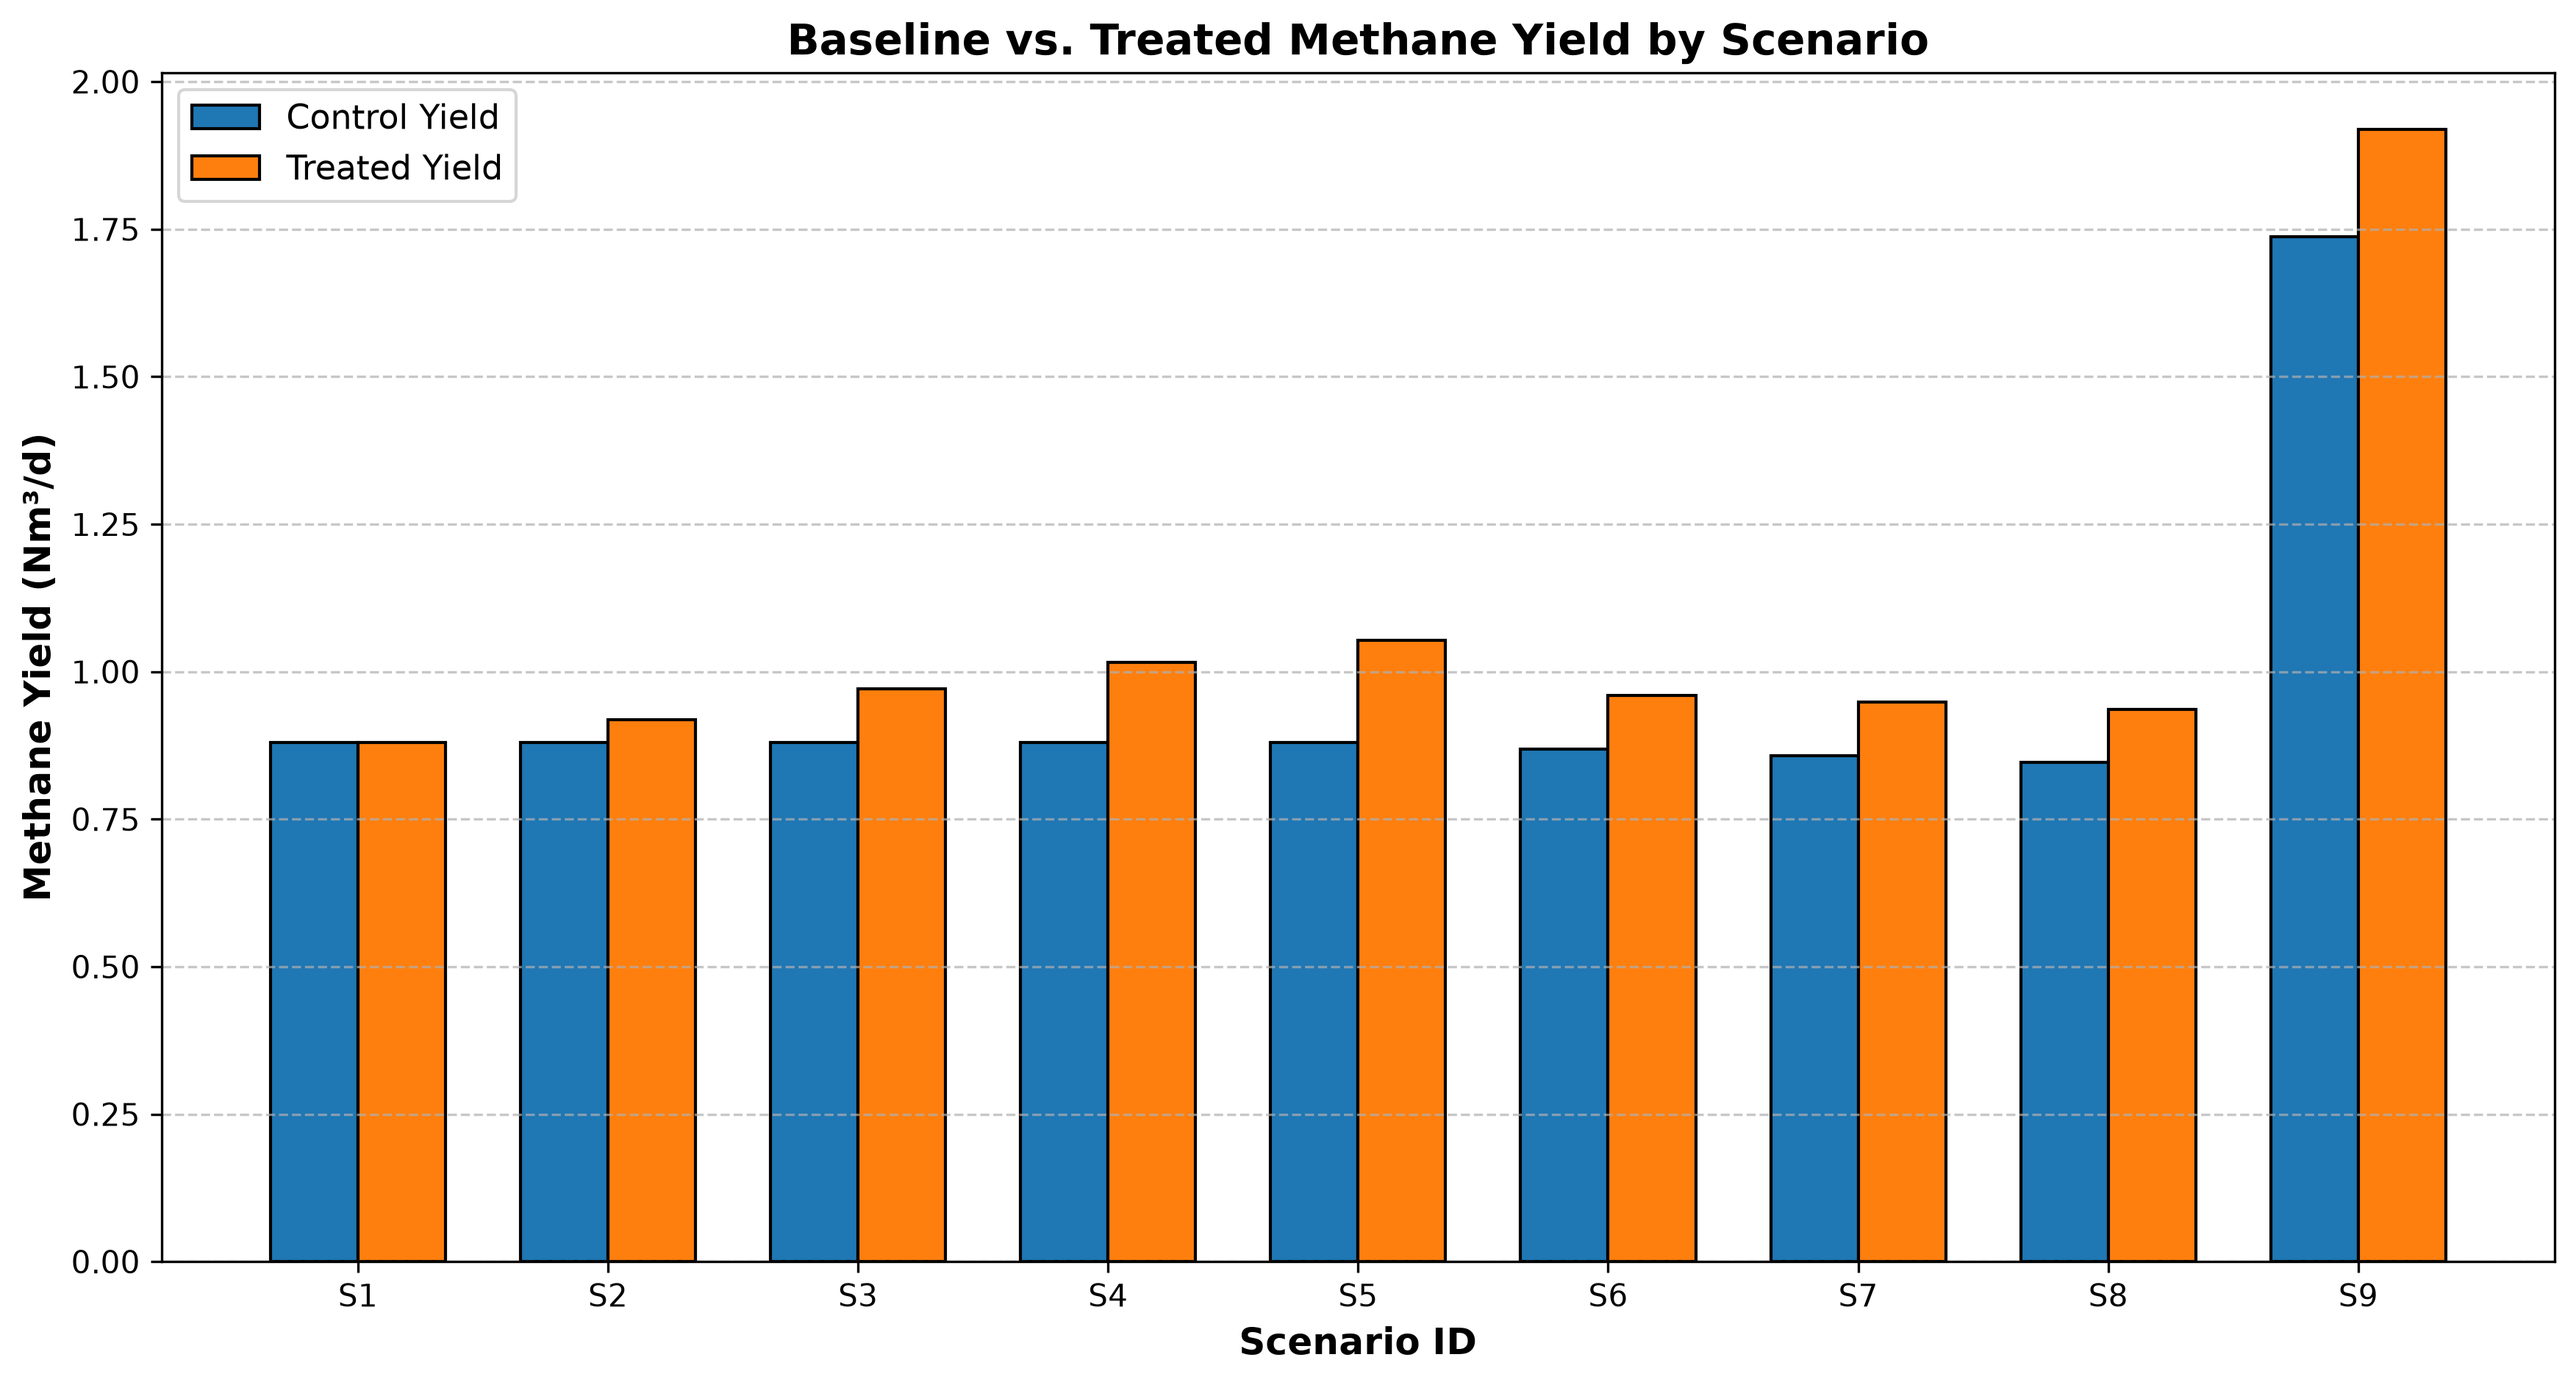
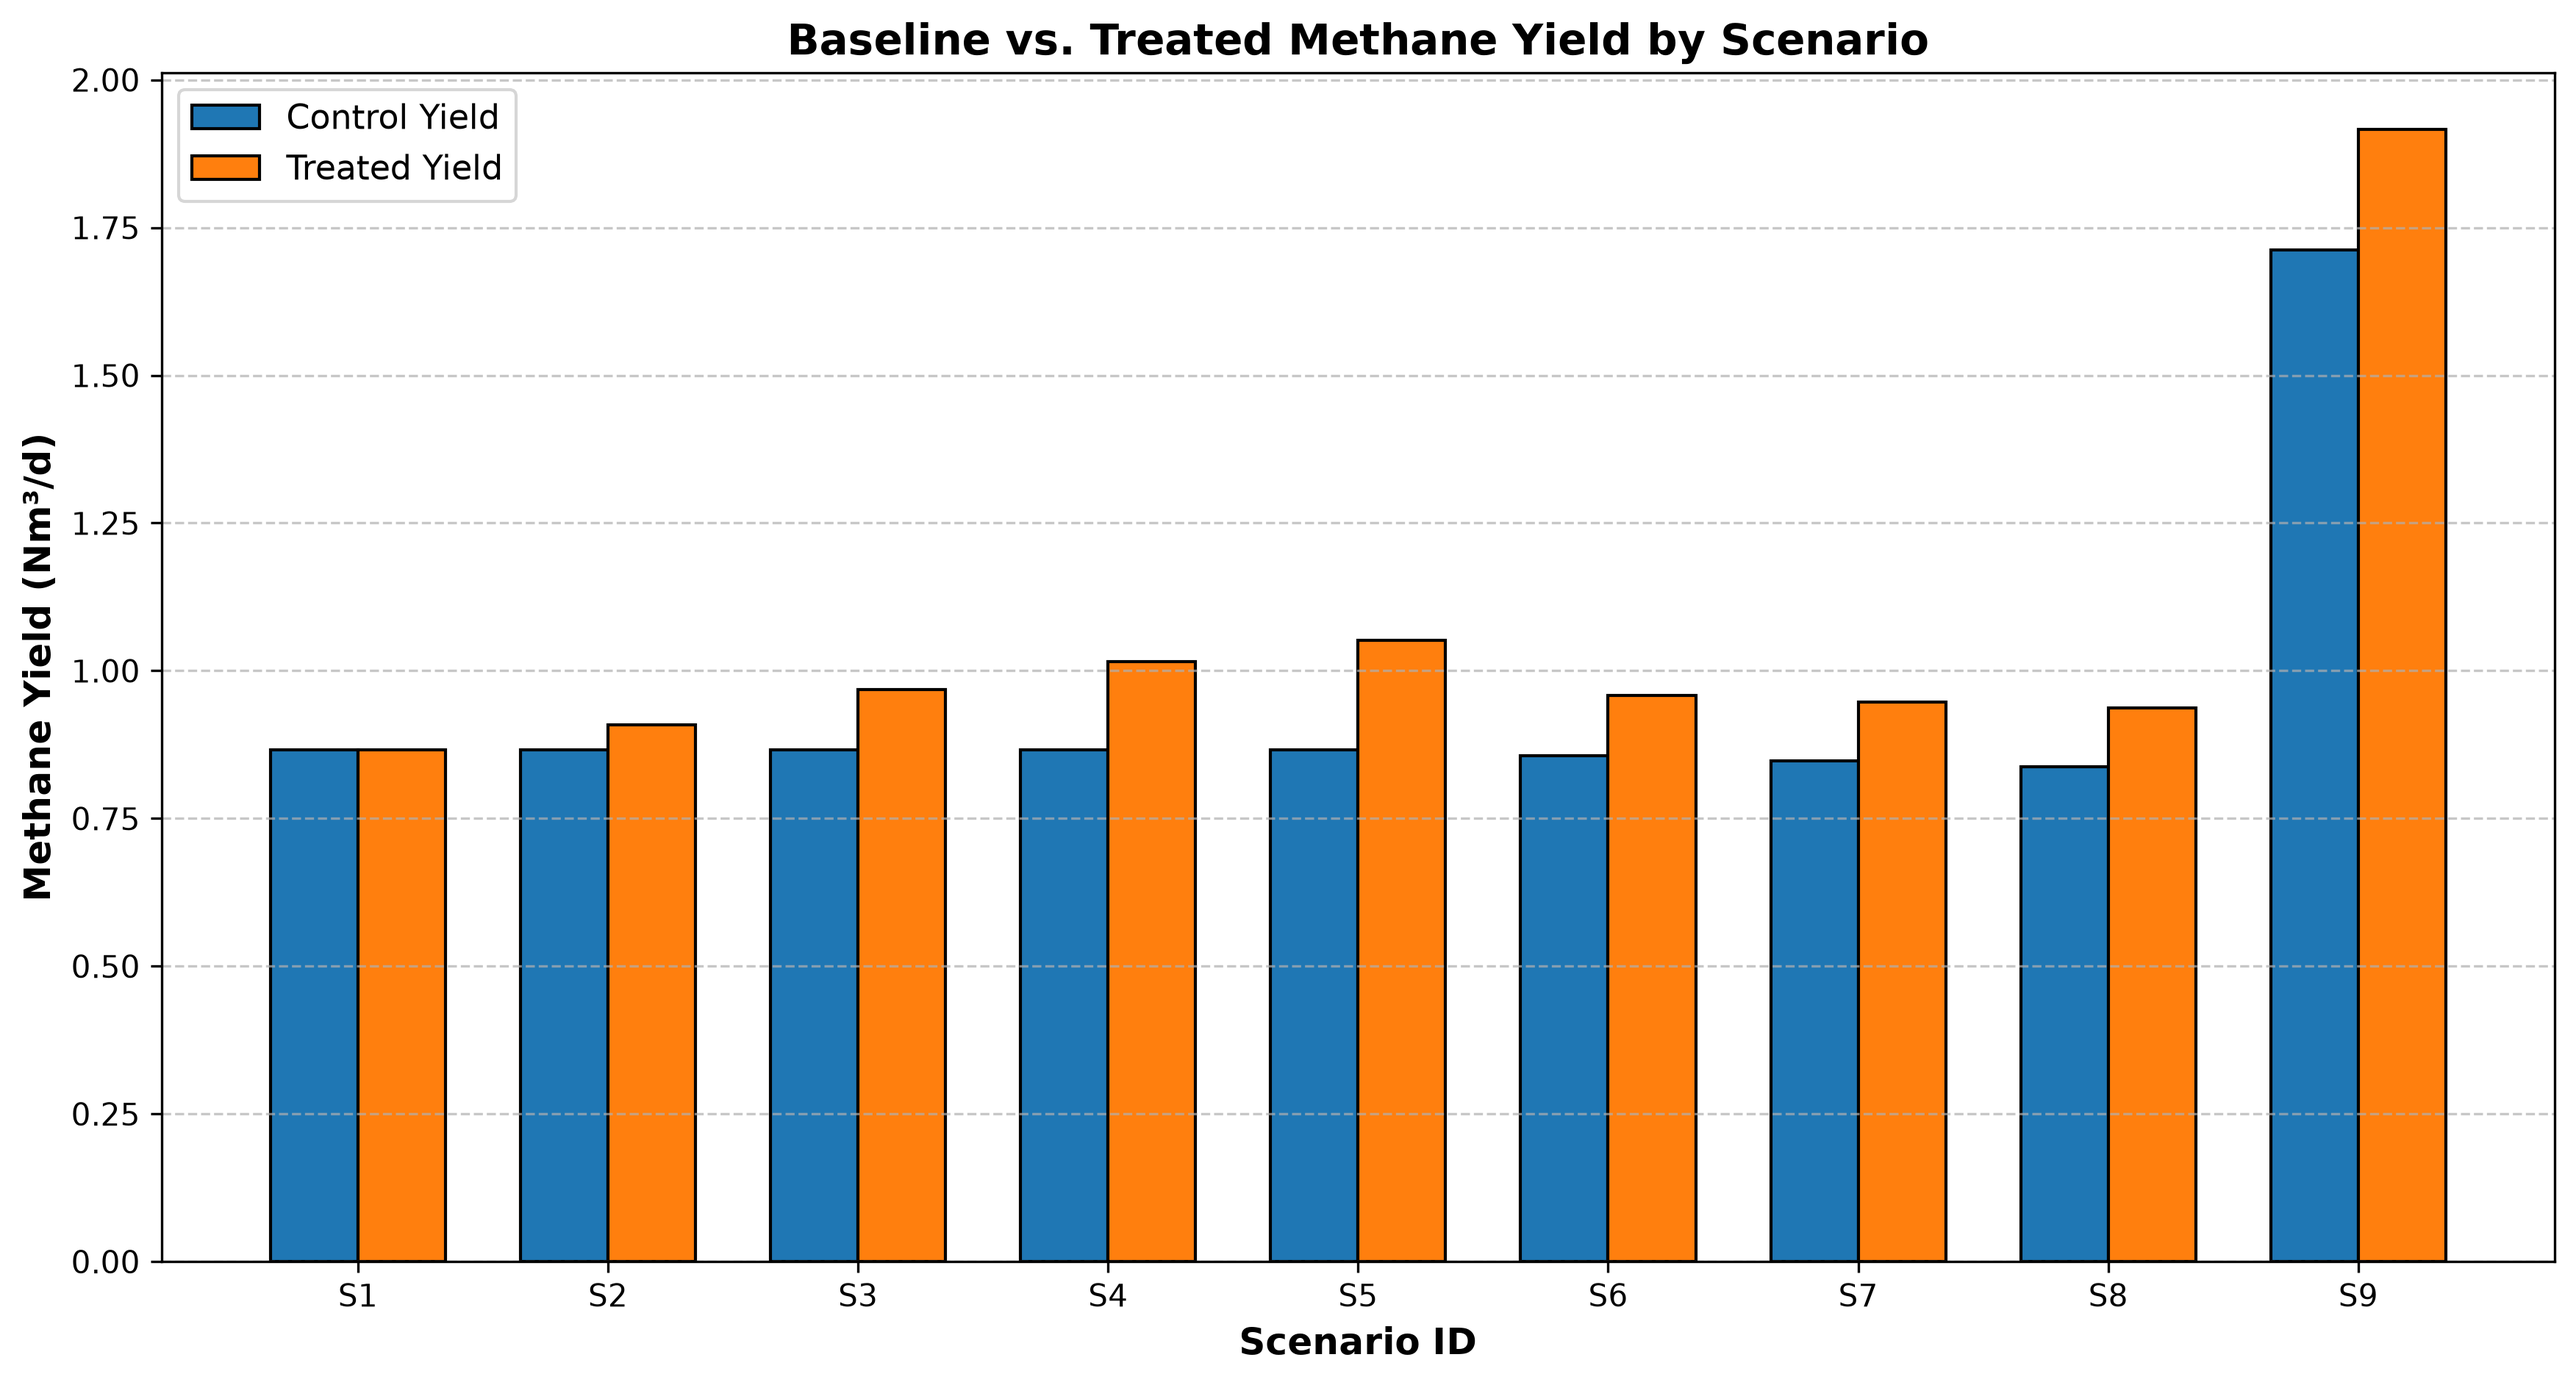
modified b_baseline

diff --git a/utils/visualisations.py b/utils/visualisations.py
@@ -5,7 +5,7 @@ def generate_all_plots(df_results, scenario_curves, output_dir="output"):
     """Generates and saves all simulation visualisations to the designated output directory."""
     os.makedirs(output_dir, exist_ok=True)
 
-    # 1. Baseline vs. Treated Methane Yield Bar Chart
+    # baseline vs. Treated Methane Yield Bar Chart
     plt.figure(figsize=(14, 7))
     bar_width = 0.35
     indices = range(len(df_results))
@@ -27,7 +27,7 @@ def generate_all_plots(df_results, scenario_curves, output_dir="output"):
     plt.close()
     print(f"[+] Visualisation successfully saved to {plot1_path}")
 
-    # 2. Methane Improvement Percentage
+    # methane Improvement Percentage
     plt.figure(figsize=(12, 6))
     scenarios_treated = df_results["Scenario ID"][1:]
     improvement_values = df_results["Improvement (%)"][1:]
@@ -47,7 +47,7 @@ def generate_all_plots(df_results, scenario_curves, output_dir="output"):
     plt.close()
     print(f"[+] Visualisation successfully saved to {plot2_path}")
 
-    # 3. Gompertz Curves (Time Series)
+    # Gompertz Curves (Time Series)
     plt.figure(figsize=(12, 7))
     for scenario_id, data in scenario_curves.items():
         plt.plot(data["time"], data["methane"], label=f'Scenario {scenario_id}', linewidth=2)
@@ -63,7 +63,7 @@ def generate_all_plots(df_results, scenario_curves, output_dir="output"):
     plt.close()
     print(f"[+] Visualisation successfully saved to {plot3_path}")
 
-    # 4. Specific Methane Yield (L/kgVS)
+    # specific methane yield (L/kgVS)
     plt.figure(figsize=(12, 6))
     scenarios_all = df_results["Scenario ID"]
     specific_yields = df_results["Specific Yield (L/kgVS)"]
@@ -75,10 +75,44 @@ def generate_all_plots(df_results, scenario_curves, output_dir="output"):
 
     plt.xlabel('Scenario ID', fontsize=12, fontweight='bold')
     plt.ylabel('Specific Yield (L/kgVS)', fontsize=12, fontweight='bold')
-    plt.title('Specific Methane Yield by Scenario (Factoring Risk & OLR)', fontsize=14, fontweight='bold')
+    plt.title('Specific Methane Yield by Scenario (Factoring Stability & OLR)', fontsize=14, fontweight='bold')
     plt.grid(axis='y', linestyle='--', alpha=0.7)
     
     plot4_path = os.path.join(output_dir, "specific_methane_yield.png")
     plt.savefig(plot4_path, dpi=300, bbox_inches='tight')
     plt.close()
     print(f"[+] Visualisation successfully saved to {plot4_path}")
+
+    # practical yield improvement (stability & OLR adjusted)
+    plt.figure(figsize=(12, 6))
+    
+    # extract the baseline specific yield (assumed to be the first row, S1)
+    baseline_specific_yield = df_results["Specific Yield (L/kgVS)"].iloc[0]
+    # isolate treated scenarios (skip S1)
+    scenarios_treated = df_results["Scenario ID"][1:]
+    treated_specific_yields = df_results["Specific Yield (L/kgVS)"][1:]
+    # calculate practical percentage improvement over S1
+    practical_improvement = ((treated_specific_yields - baseline_specific_yield) / baseline_specific_yield) * 100.0
+    # color bars green if positive, red if negative
+    colors = ['#2ca02c' if val >= 0 else '#d62728' for val in practical_improvement]
+    
+    bars = plt.bar(scenarios_treated, practical_improvement, color=colors, edgecolor='black', width=0.5)
+    
+    for bar in bars:
+        yval = bar.get_height()
+        # Adjust text placement based on whether the bar goes up or down
+        offset = 1.0 if yval >= 0 else -2.5
+        va = 'bottom' if yval >= 0 else 'top'
+        plt.text(bar.get_x() + bar.get_width()/2, yval + offset, f'{yval:.1f}%', ha='center', va=va, fontweight='bold', fontsize=9)
+
+    plt.axhline(0, color='black', linewidth=1.2) # baseline reference line
+    plt.xlabel('Scenario ID', fontsize=12, fontweight='bold')
+    plt.ylabel('Practical Improvement Over Baseline (%)', fontsize=12, fontweight='bold')
+    plt.title('Stability-Adjusted Specific Yield Improvement (vs S1)', fontsize=14, fontweight='bold')
+    plt.grid(axis='y', linestyle='--', alpha=0.7)
+    
+    plot5_path = os.path.join(output_dir, "practical_yield_improvement.png")
+    plt.savefig(plot5_path, dpi=300, bbox_inches='tight')
+    plt.close()
+    
+    print(f"[+] Visualization successfully saved to {plot5_path}")

diff --git a/data/config.py b/data/config.py
@@ -13,13 +13,22 @@ FW_FRACTIONS = { # baseline fractions given by Dr.Bita
 #     'lipid': 0.0072,
 #     'inert': 0.0009
 # }
+# # FW_FRACTIONS = { # S11
+#     'carb': 0.,
+#     'protein': 0.3774,
+#     'lipid': 0.,
+#     'inert': 0.
+# }
+# FW_FRACTIONS = {
+
+# }
 
 
-SCG_FRACTIONS = {
-    'carb': 0.42,    # Assumed baseline SCG composition
-    'protein': 0.16, # Assumed baseline SCG composition
-    'lipid': 0.22,   # Assumed baseline SCG composition
-    'inert': 0.20    # Assumed baseline SCG composition
+SCG_FRACTIONS = { # other sim
+    'carb': 0.42,
+    'protein': 0.16,
+    'lipid': 0.22,
+    'inert': 0.20
 }
 # ==========================================
 # 2. METHANE POTENTIAL CONSTANTS (Nm^3 CH4 / kg VS)
@@ -78,6 +87,12 @@ FPSI_WEIGHTS = {
     'lipid': 0.20,
     'inert': 0.20
 }
+# enzyme_split = {
+#     "carb": 0.40,
+#     "protein": 0.30,
+#     "lipid": 0.20,
+#     "SCG": 0.10,
+# }
 # FPSI_WEIGHTS = { # team assumption
 #     'carb': 0.25,
 #     'protein': 0.25,
@@ -93,14 +108,14 @@ DIGESTER_BASELINES = {
     'ch4_fraction_control': 0.60, # ! VERIFY - 0.50-0.70 range from dr. bita's paper 2.2.4. modelled CH4 fraction in raw biogas
     'lag_phase': 3.8,# from Dr. Bita's sim
     'b_control': {   # ! Assumed baseline biodegradability factors
-        'carb': 0.85, 
-        'protein': 0.75, 
-        'lipid': 0.60, 
-        'inert': 0.05
-        # 'carb': 0.55, 
-        # 'protein': 0.55, 
-        # 'lipid': 0.55, 
-        # 'inert': 0.55 
+        # 'carb': 0.85, 
+        # 'protein': 0.75, 
+        # 'lipid': 0.60, 
+        # 'inert': 0.05
+        'carb': 0.72, 
+        'protein': 0.72, 
+        'lipid': 0.72, 
+        'inert': 0.72 
     }
 }
 

diff --git a/main.py b/main.py
@@ -33,6 +33,9 @@ scenarios = [
     {"id": "S9", "description": "Moderate pretreatment + 10% SCG + high OLR", "enzyme_dose": 60, "t_pre": 24, "scg": 10.0, "olr": 4.5, "hrt": 20},
     # {"id": "S10", "description": "Carbohydrate-rich food-waste composition.", "enzyme_dose": 60, "t_pre": 24, "scg": 0.0, "olr": 2.5, "hrt": 25},
 ]
+# scenarios_new = [
+#     {"id": "S10", "description": "Carbohydrate-rich food-waste composition.", "enzyme_dose": 60, "t_pre": 24, "scg": 0.0, "olr": 2.5, "hrt": 25},
+# ]
 
 # Global/Environmental Assumptions for the pipeline
 F_TS = 0.25          # published sim variable

diff --git a/AD/digester.py b/AD/digester.py
@@ -170,6 +170,12 @@ class Digester:
         # formula 27*: methane purity calculation
         # ! IMPORTANT: this is a workaround formula as in the formula list, there's nothing to calculate the volume of biogas - this would've been recursive as both formula 27 and 28 are dependent on each other
         # original: P_CH4 = V_CH4 / V_biogas x 100
+
+        # 0.58 + 0.08 FPSI − 
+        # 0.05 R_total − 0.03
+        # f_SCG; clipped 0.50–
+        # 0.70
+
         treated_ch4_fraction = ch4_frac_control + (purity_factor * fpsi)
         
         # formula 28: total biogas volume
